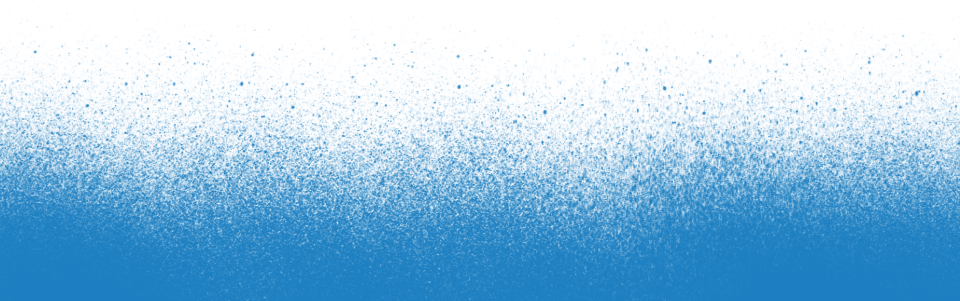
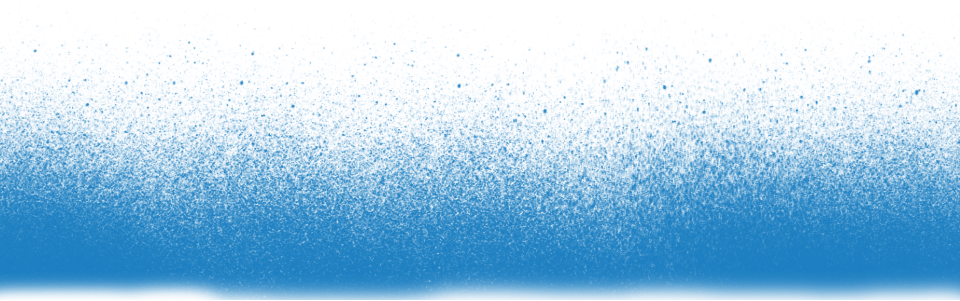
fundilho
fundilho

Changed region(s): [[0.0, 0.2691, 1.0, 0.8671], [0.0, 0.9269, 1.0, 1.0], [0.4688, 0.8372, 0.5, 0.8671]]

diff --git a/css/estilo.css b/css/estilo.css
@@ -141,12 +141,11 @@ nav {font-size: 18px;}
 
 .respingo{
 	background-image: url(../img/respingos.png);
-	opacity: 0.4;
+	opacity: 0.6;
     filter: alpha(opacity=50); /* For IE8 and earlier */
     height: 100%;
     width: 100%;
     position: absolute;
-    float: right;
     background-position: bottom;
     background-repeat: repeat-x;
     margin: 0px;
